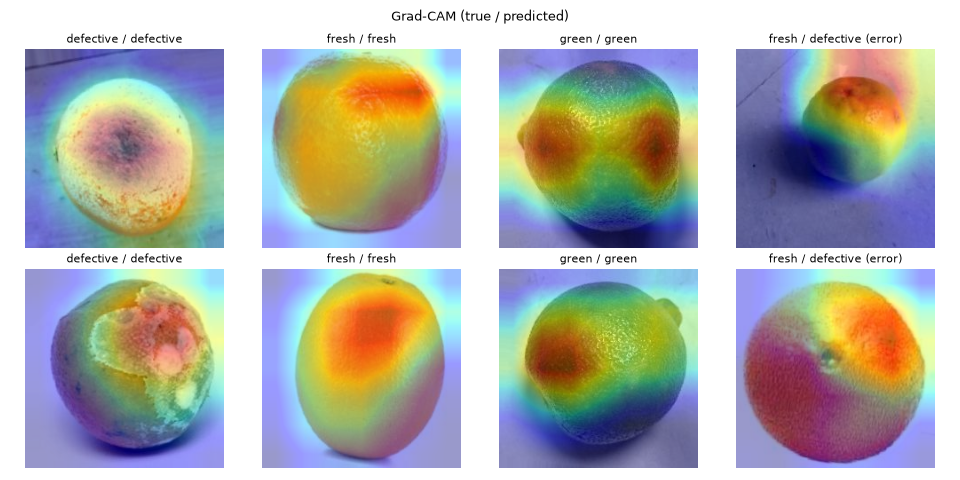
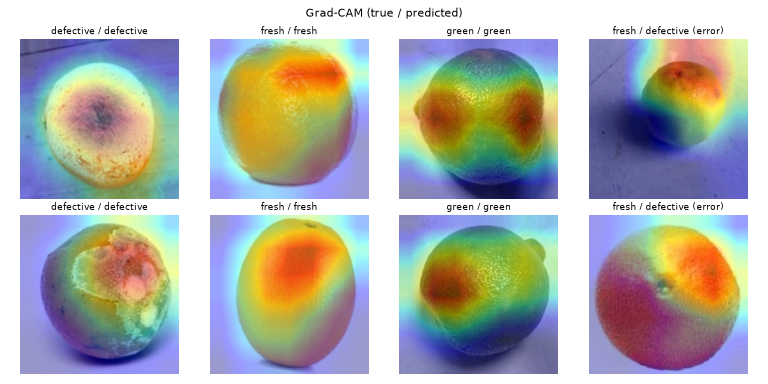
Log test result before plotting and fix Grad-CAM grid edge cases

diff --git a/src/evaluate.py b/src/evaluate.py
@@ -9,7 +9,7 @@ import pandas as pd
 import torch
 import torch.nn.functional as F
 from PIL import Image
-from sklearn.metrics import ConfusionMatrixDisplay, accuracy_score, classification_report
+from sklearn.metrics import ConfusionMatrixDisplay, classification_report
 from torch.utils.data import DataLoader
 
 from dataset import GRADES, IMAGENET_MEAN, IMAGENET_STD, OrangeDataset, eval_transform
@@ -54,8 +54,10 @@ def grad_cam(model, image, target_class):
 
 def save_gradcam_grid(model, predictions, device, seed, out_path, max_errors=4):
     # 2 random images per grade, plus misclassified ones because errors show what the model relies on
-    samples = pd.concat([predictions[predictions["true"] == g].sample(2, random_state=seed) for g in GRADES]
+    per_grade = [predictions[predictions["true"] == g] for g in GRADES]
+    samples = pd.concat([rows.sample(min(2, len(rows)), random_state=seed) for rows in per_grade]
                         + [predictions[predictions["true"] != predictions["pred"]].head(max_errors)])
+    samples = samples[~samples.index.duplicated()]  # an error may also have been drawn at random
     transform = eval_transform()
     mean = torch.tensor(IMAGENET_MEAN).view(3, 1, 1)
     std = torch.tensor(IMAGENET_STD).view(3, 1, 1)
@@ -65,16 +67,15 @@ def save_gradcam_grid(model, predictions, device, seed, out_path, max_errors=4):
         ax.axis("off")
     for ax, (_, row) in zip(axes.T.flat, samples.iterrows()):
         image = transform(Image.open(row["path"]).convert("RGB"))
-        with torch.no_grad():
-            pred = model(image.unsqueeze(0).to(device)).argmax(1).item()
-        cam = grad_cam(model, image.to(device), pred)
+        # Explain the logged prediction, not a fresh single-image one, so titles match the predictions CSV
+        cam = grad_cam(model, image.to(device), GRADES.index(row["pred"]))
         ax.imshow((image * std + mean).clamp(0, 1).permute(1, 2, 0))
         ax.imshow(cam, cmap="jet", alpha=0.4)
-        error = " (error)" if row["true"] != GRADES[pred] else ""
-        ax.set_title(f"{row['true']} / {GRADES[pred]}{error}", fontsize=10)
+        error = " (error)" if row["true"] != row["pred"] else ""
+        ax.set_title(f"{row['true']} / {row['pred']}{error}", fontsize=10)
     fig.suptitle("Grad-CAM (true / predicted)")
     fig.tight_layout()
-    fig.savefig(out_path, dpi=80)
+    fig.savefig(out_path, dpi=64)  # keeps the tracked PNG small
     plt.close(fig)
 
 
@@ -101,9 +102,12 @@ def main():
     model.load_state_dict(checkpoint["model_state"])
     model.to(device)
 
-    test_acc = write_test_outputs(model, args.test_csv, run_id, device, args.seed)
+    predictions = predict_test(model, args.test_csv, device)
+    test_acc = (predictions["true"] == predictions["pred"]).mean()
+    print(f"Test accuracy: {test_acc:.4f} on {len(predictions)} images")
 
-    # Written last, so a crash above never leaves a half-finished row
+    # Logged straight after scoring, before any plotting, so a later crash still counts as evaluated
+    # and the guard above blocks a second look at the test set
     row = {
         "run_id": run_id,
         "date": date.today().isoformat(),
@@ -120,19 +124,23 @@ def main():
     pd.DataFrame([row])[logged.columns].to_csv(EXPERIMENTS_CSV, mode="a", header=False, index=False)
     print(f"Logged {run_id} to {EXPERIMENTS_CSV}")
 
+    write_test_outputs(model, predictions, run_id, device, args.seed)
 
-def write_test_outputs(model, test_csv, run_id, device, seed):
-    """Metrics, per-image predictions, confusion matrix and Grad-CAM. Returns test accuracy."""
+
+def predict_test(model, test_csv, device):
+    """Per-image predictions on the test set as a table of path, source_class, true and pred grades."""
     test_df = pd.read_csv(test_csv)
     loader = DataLoader(OrangeDataset(test_csv, eval_transform()), batch_size=64)
     labels, preds = predict(model, loader, device)
-    test_acc = accuracy_score(labels, preds)
-    print(f"Test accuracy: {test_acc:.4f} on {len(labels)} images")
-    print(classification_report(labels, preds, labels=range(len(GRADES)), target_names=GRADES, digits=4))
+    return pd.DataFrame({"path": test_df["path"], "source_class": test_df["source_class"],
+                         "true": [GRADES[i] for i in labels], "pred": [GRADES[i] for i in preds]})
+
+
+def write_test_outputs(model, predictions, run_id, device, seed):
+    """Per-class report, predictions CSV, per-source_class accuracy, confusion matrix and Grad-CAM."""
+    print(classification_report(predictions["true"], predictions["pred"], labels=GRADES, digits=4))
 
     # Per-image predictions so errors can be inspected later without re-running the test set
-    predictions = pd.DataFrame({"path": test_df["path"], "source_class": test_df["source_class"],
-                                "true": [GRADES[i] for i in labels], "pred": [GRADES[i] for i in preds]})
     predictions_path = Path("results") / f"{run_id}_test_predictions.csv"
     predictions.to_csv(predictions_path, index=False)
     print(f"Saved {predictions_path}")
@@ -141,8 +149,8 @@ def write_test_outputs(model, test_csv, run_id, device, seed):
     print(correct.groupby(predictions["source_class"]).mean().round(4).to_string())
 
     confusion_path = Path("results") / f"{run_id}_confusion.png"
-    disp = ConfusionMatrixDisplay.from_predictions(labels, preds, labels=range(len(GRADES)),
-                                                   display_labels=GRADES, cmap="Blues", colorbar=False)
+    disp = ConfusionMatrixDisplay.from_predictions(predictions["true"], predictions["pred"], labels=GRADES,
+                                                   cmap="Blues", colorbar=False)
     disp.ax_.set_title(f"{run_id} test confusion matrix")
     disp.figure_.tight_layout()
     disp.figure_.savefig(confusion_path, dpi=80)
@@ -152,7 +160,6 @@ def write_test_outputs(model, test_csv, run_id, device, seed):
     gradcam_path = Path("results") / f"{run_id}_gradcam.png"
     save_gradcam_grid(model, predictions, device, seed, gradcam_path)
     print(f"Saved {gradcam_path}")
-    return test_acc
 
 
 if __name__ == "__main__":
